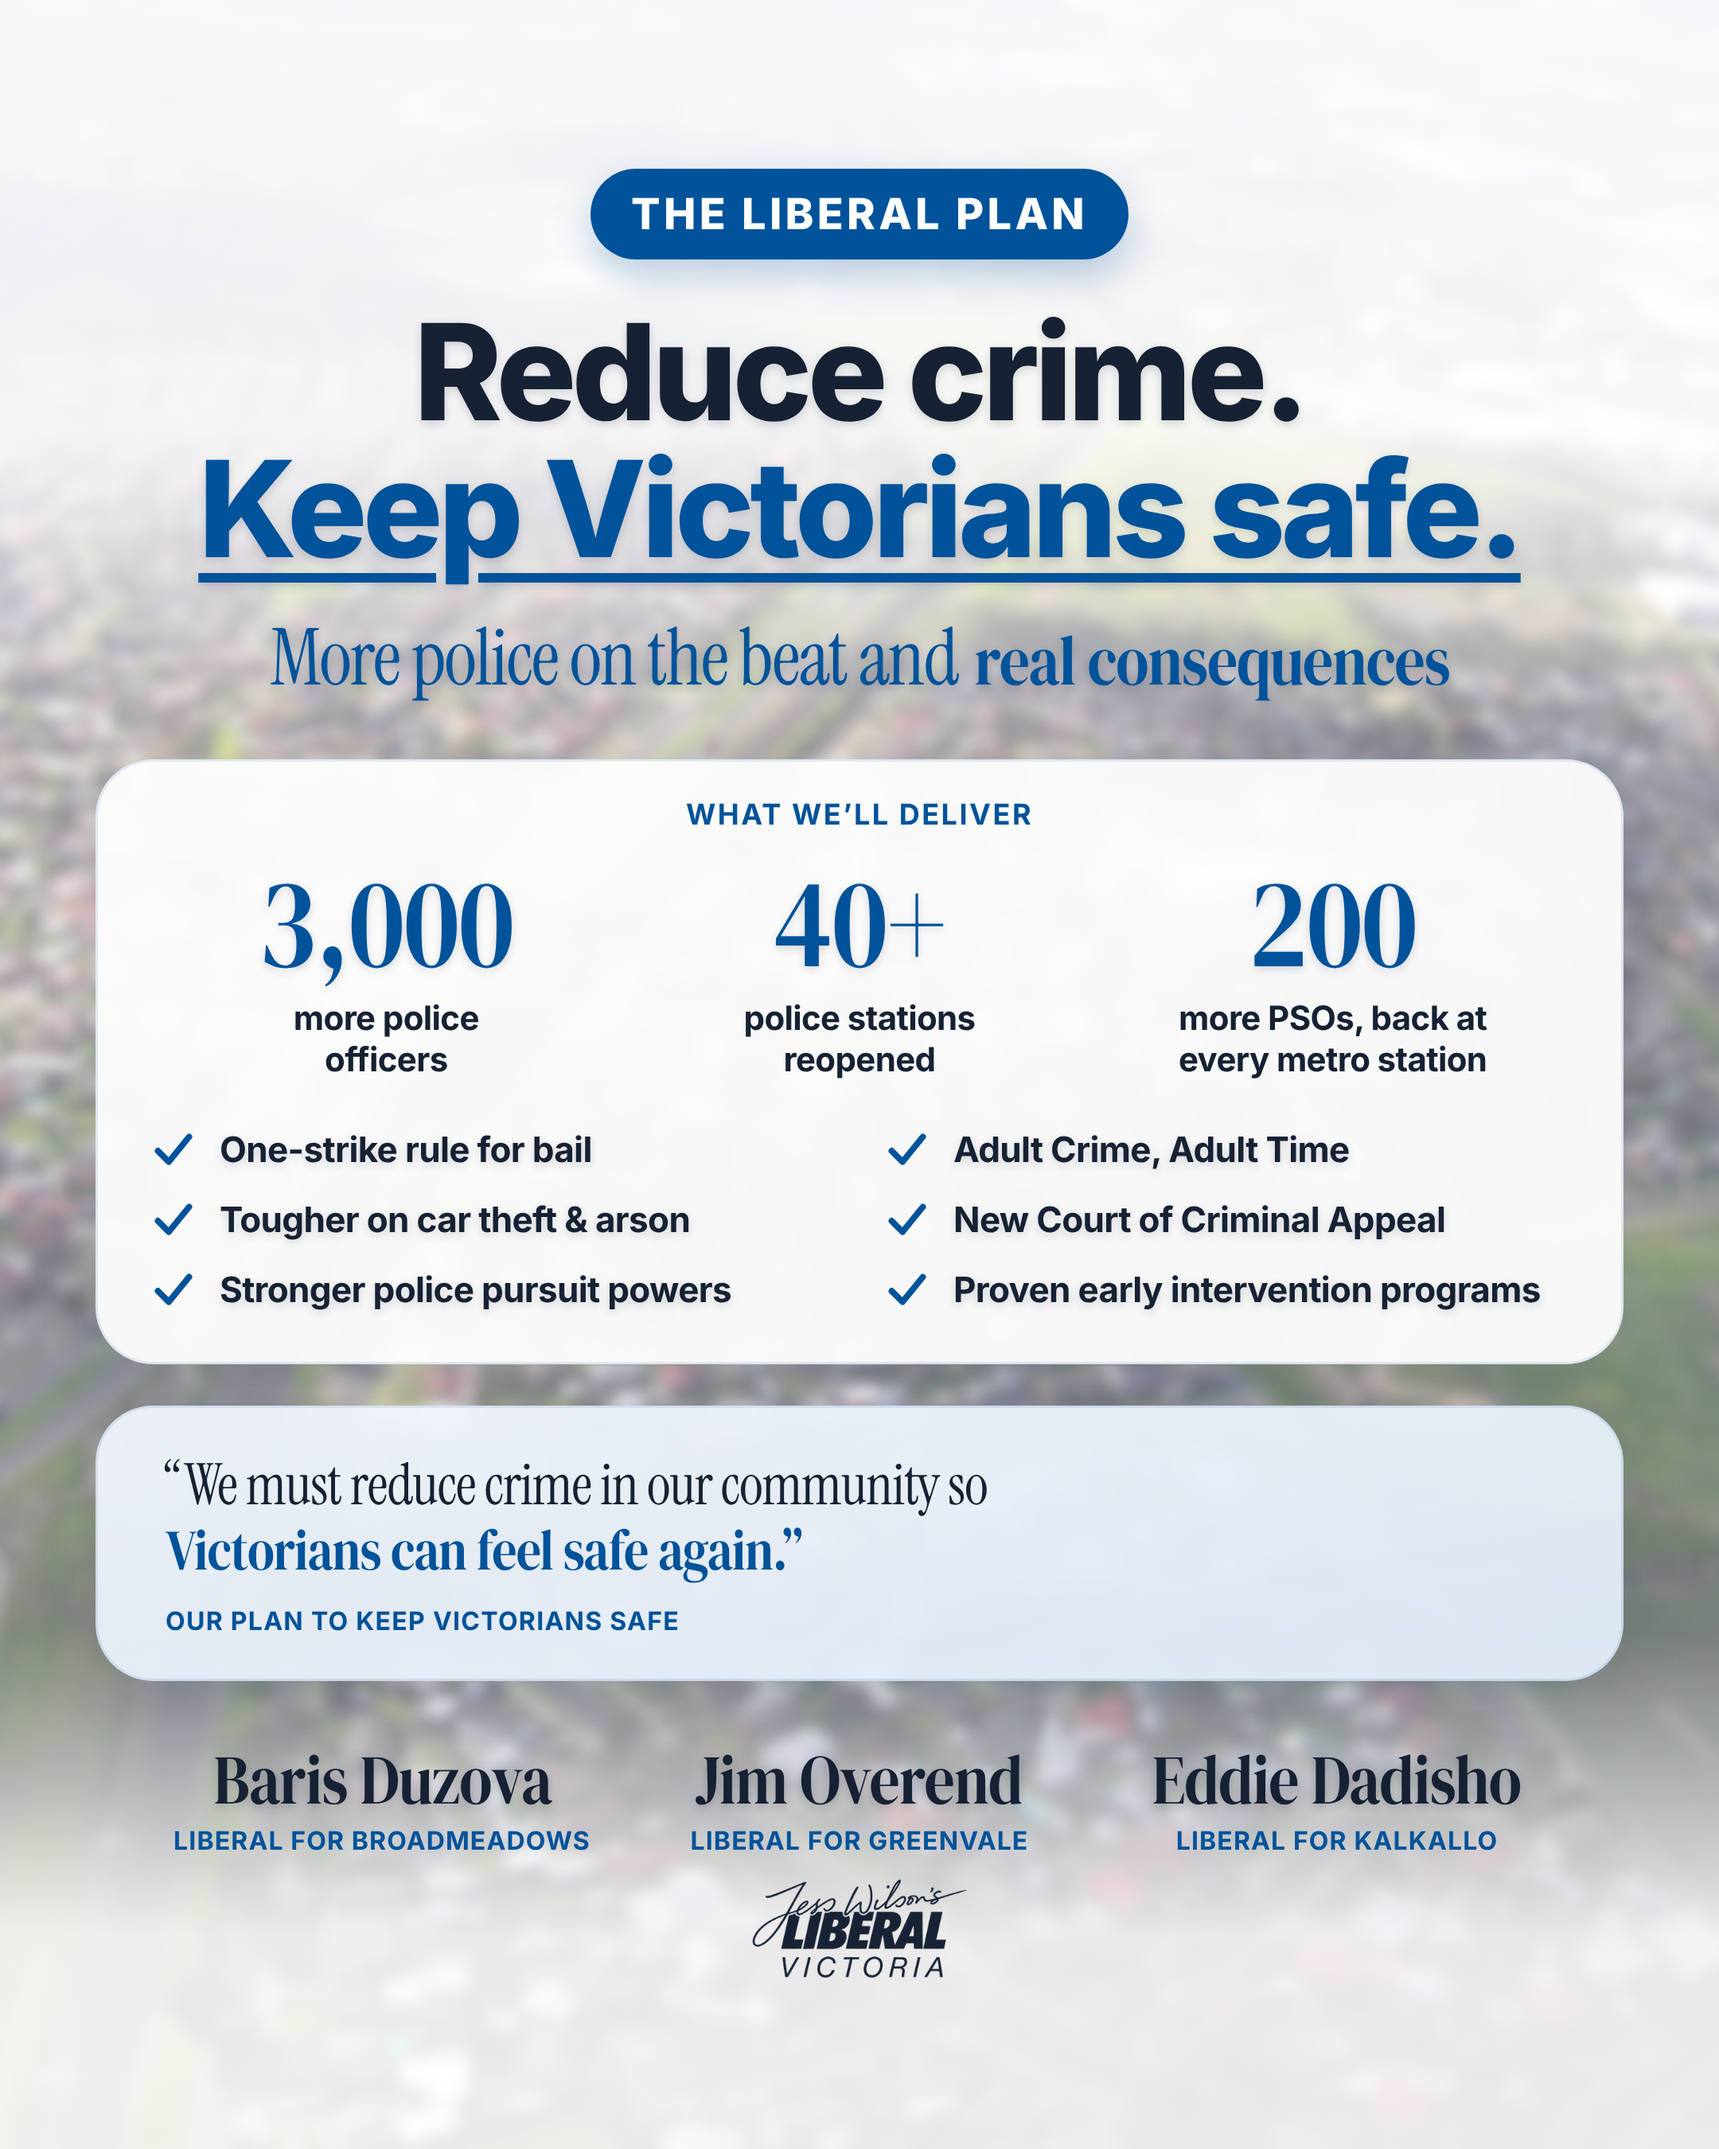
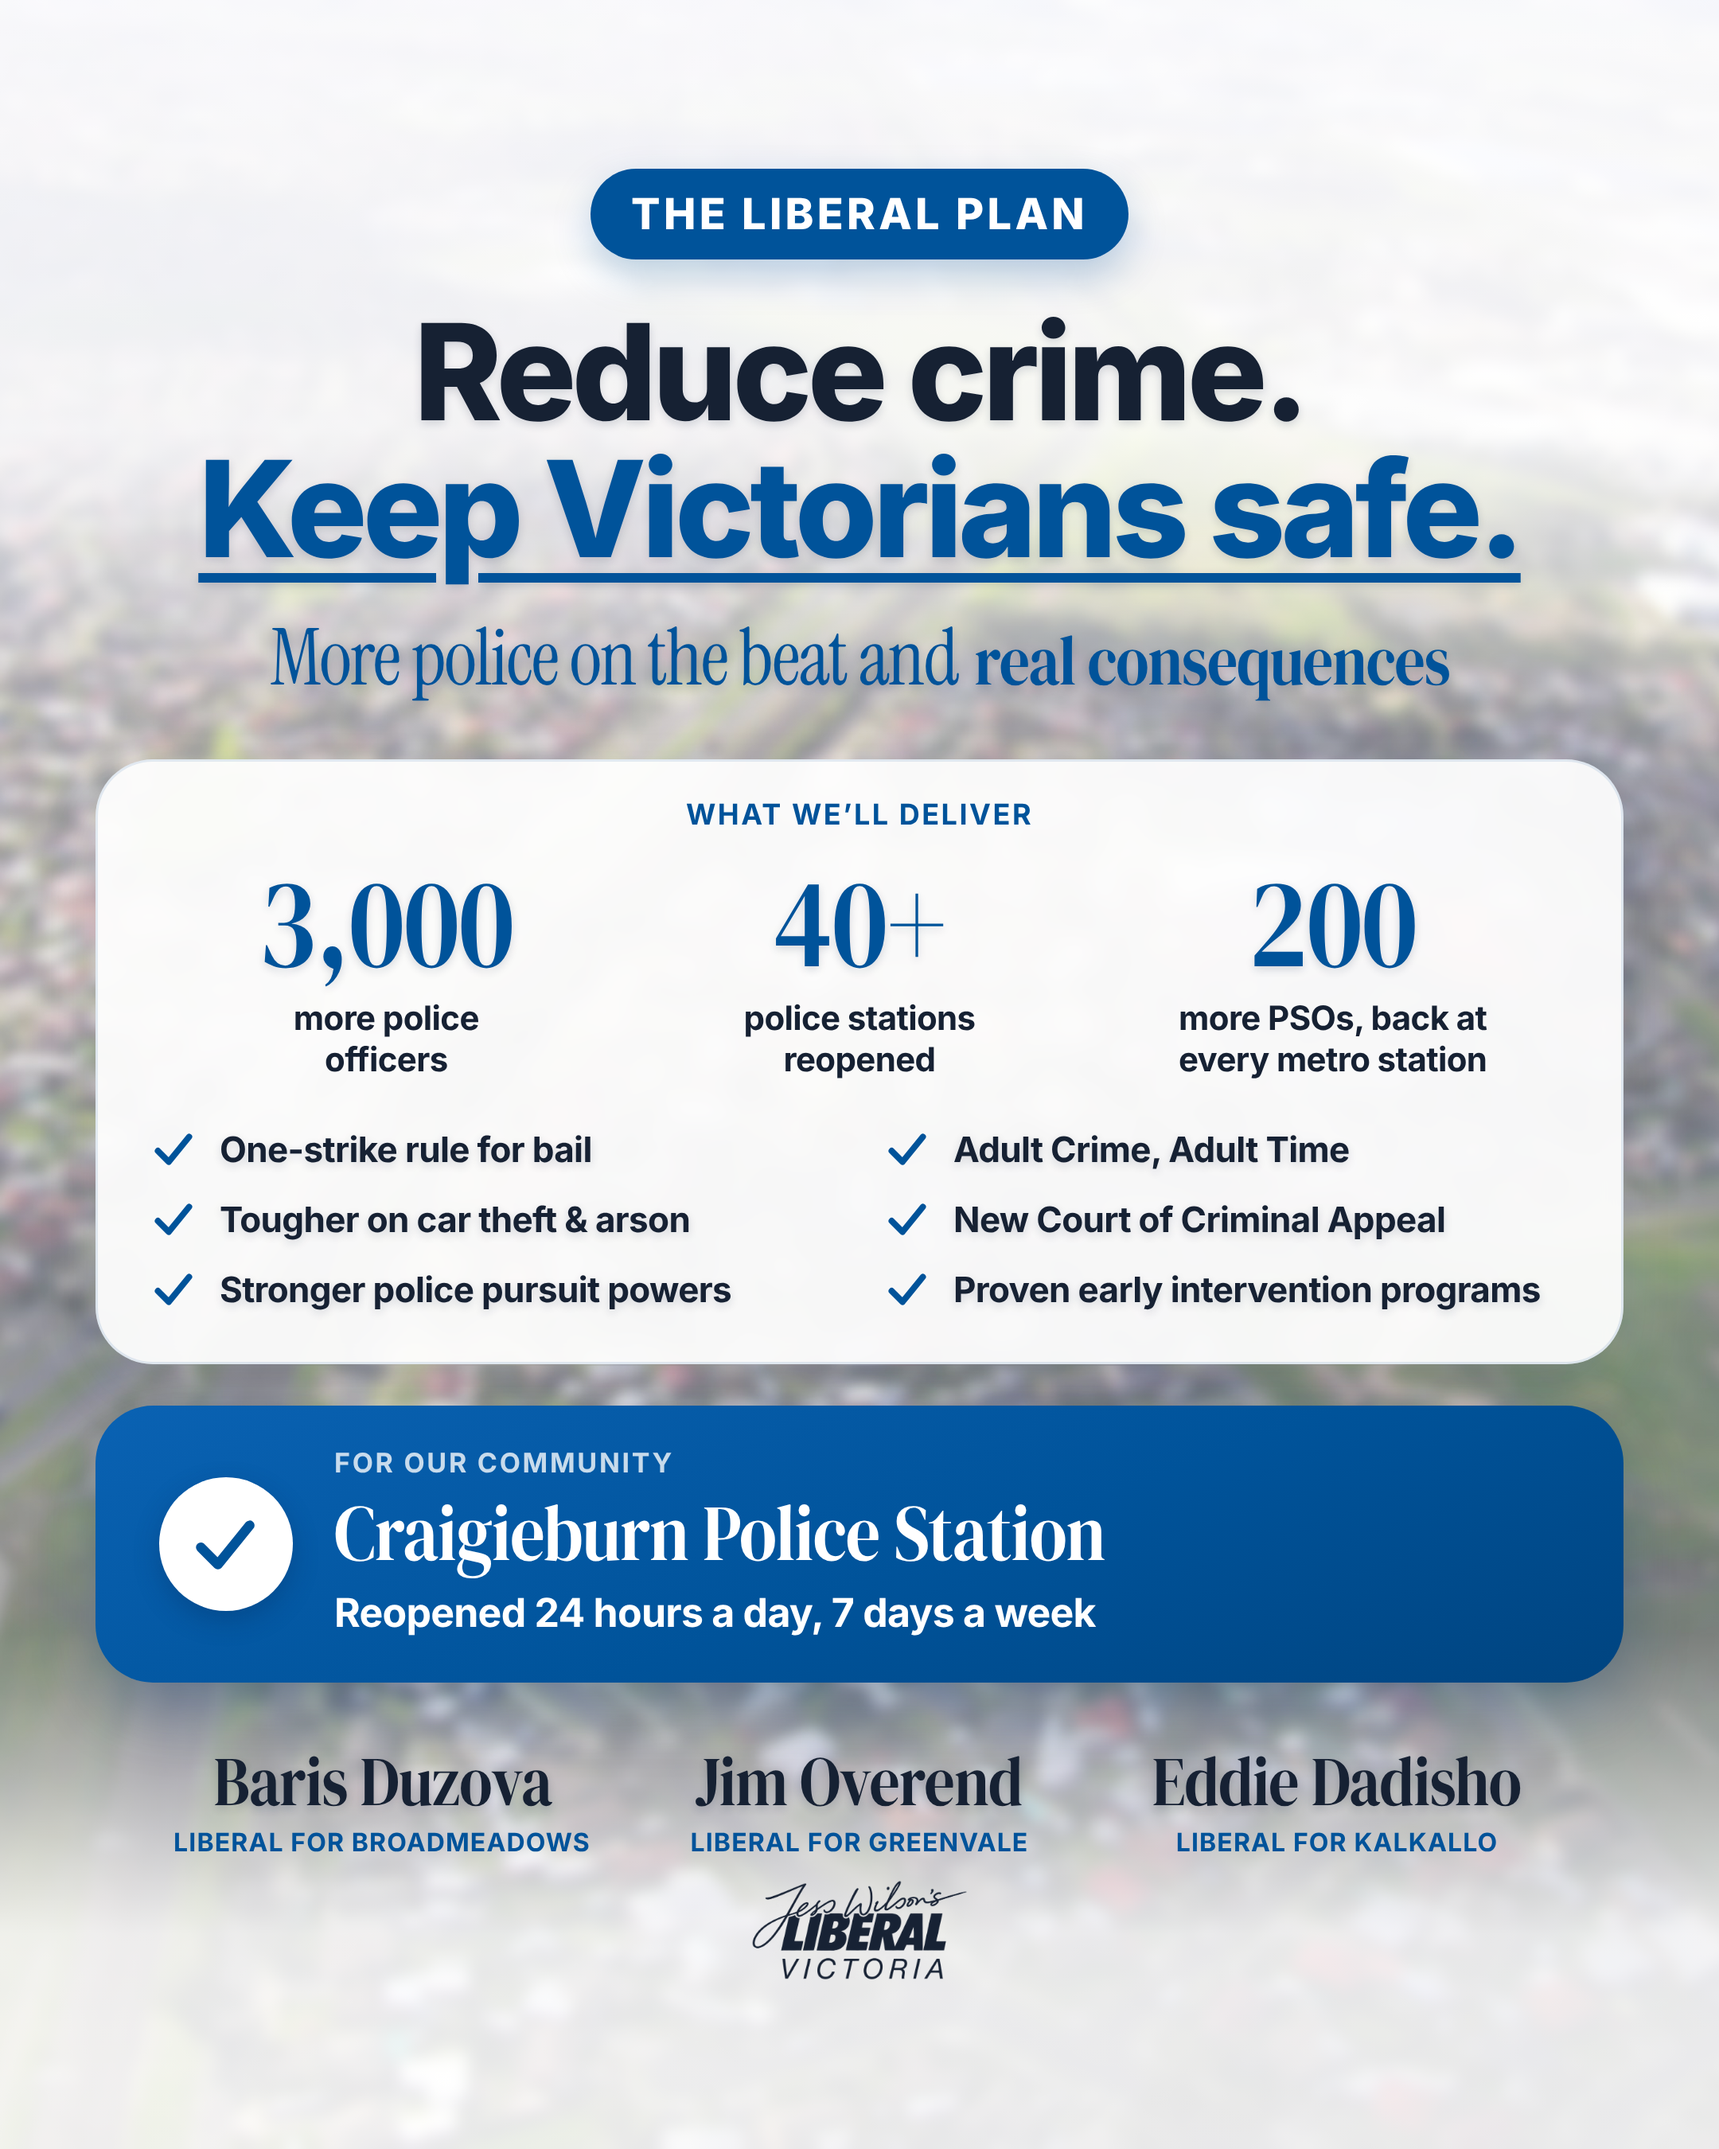
Crime slide 2: Craigieburn Police Station reopened 24/7 card
Replace the plan quote with a solid blue local-commitment card answering
slide 1's Craigieburn station cut; update caption and Instagram preview.

Claude-Session: https://claude.ai/code/session_01MT6wivusBEagFnhed7SAun

diff --git a/designs/crime-north/source/crime-plan.html b/designs/crime-north/source/crime-plan.html
@@ -37,11 +37,13 @@ h1 .ul{text-decoration:underline;text-decoration-color:var(--blue);text-decorati
 #ticks{display:grid;grid-template-columns:1fr 1fr;gap:16px 30px;text-align:left;margin-top:30px}
 .tk{display:flex;gap:14px;align-items:flex-start;font-family:"Inter";font-weight:700;color:var(--navy);letter-spacing:-.015em;line-height:1.25;text-shadow:var(--shadow)}
 .tk svg{flex:none;width:30px;height:30px;margin-top:-2px}
-#quote{padding:30px 44px 28px;text-align:left;background:linear-gradient(170deg,rgba(241,246,252,.94),rgba(226,236,248,.94));position:relative}
-#quote .q{font-family:"Serif Light";color:var(--navy);line-height:1.12;letter-spacing:-.015em}
-#quote .q .bd{font-family:"Serif Bold";color:var(--blue);display:inline-block;transform:scaleX(.86);transform-origin:0 50%}
-#quote .mark{position:absolute;left:30px;top:-6px;font-family:"Serif Bold";color:var(--blue);opacity:.18;line-height:1}
-#quote .who{margin-top:14px;font-family:"Inter";font-weight:700;color:var(--blue);letter-spacing:.04em;text-transform:uppercase}
+/* local commitment: solid Liberal blue card, the answer to slide 1's Craigieburn line */
+#local{display:flex;gap:26px;align-items:center;padding:28px 40px;text-align:left;
+  background:linear-gradient(160deg,#0a62b3 0%,#00539a 55%,#004480 100%);box-shadow:0 18px 40px rgba(0,60,120,.28)}
+#local .ic{flex:none;border-radius:50%;background:#fff;display:grid;place-items:center;box-shadow:0 6px 16px rgba(0,30,70,.25)}
+#local .lab{font-family:"Inter";font-weight:700;color:rgba(255,255,255,.78);letter-spacing:.08em;text-transform:uppercase;line-height:1}
+#local .t{margin-top:10px;font-family:"Serif Bold";color:#fff;line-height:1;letter-spacing:-.01em;white-space:nowrap;display:inline-block;transform:scaleX(.86);transform-origin:0 50%}
+#local .s{margin-top:10px;font-family:"Inter";font-weight:700;color:#fff;letter-spacing:-.015em;line-height:1.25}
 #stats .st .l b{font-weight:800}
 #foot{display:flex;flex-direction:column;align-items:center}
 #names{display:grid;grid-template-columns:repeat(var(--ncols),var(--ncol));justify-content:center;align-items:start;column-gap:var(--ngap)}
@@ -57,7 +59,7 @@ h1 .ul{text-decoration:underline;text-decoration-color:var(--blue);text-decorati
     <h1 id="h"></h1>
     <div id="lead" class="serif"></div>
     <div id="statcard" class="card"><div class="lab"></div><div id="stats"></div><div id="ticks"></div></div>
-    <div id="quote" class="card"><div class="mark">“</div><div class="q"></div><div class="who"></div></div>
+    <div id="local" class="card"><div class="ic"></div><div><div class="lab"></div><div class="t"></div><div class="s"></div></div></div>
     <div id="foot"><div id="names"></div><img id="logo" src="logo-navy.png" alt="Jess Wilson's Liberal Victoria"></div>
   </div>
 </div>
@@ -72,9 +74,9 @@ const P = Object.assign({
   statN:80, statL:21, statD:18,
   ticks:['One-strike rule for bail','Adult Crime, Adult Time','Tougher on car theft &amp; arson','New Court of Criminal Appeal','Stronger police pursuit powers','Proven early intervention programs'],
   tickSize:22,
-  quote:{text:'We must reduce crime in our community so <span class="bd">Victorians can feel safe again.”</span>',
-    size:36, who:'Our Plan to Keep Victorians Safe', whoSize:16, markSize:130},
-  gaps:[24,36,26,40],                    // after head, lead, statcard, quote
+  local:{lab:'For our community', labSize:17, title:'Craigieburn Police Station', titleSize:50,
+    sub:'Reopened 24 hours a day, 7 days a week', subSize:25, icon:84},
+  gaps:[24,36,26,40],                    // after head, lead, statcard, local
   // candidates, ordered by electorate
   cands:[['Baris Duzova','Liberal for Broadmeadows'],['Jim Overend','Liberal for Greenvale'],['Eddie Dadisho','Liberal for Kalkallo']],
   nameSize:44, roleSize:16, nameGap:20, colW:280, logoW:136, footGap:14
@@ -87,17 +89,19 @@ $('lead').innerHTML=P.lead; $('lead').style.fontSize=px(P.leadSize);
 $('stats').innerHTML=P.stats.map(([n,l,d])=>`<div class="st"><div class="n" style="font-size:${P.statN}px">${n}</div><div class="l" style="font-size:${P.statL}px">${l}</div>${d?`<div class="d" style="font-size:${P.statD}px">${d}</div>`:''}</div>`).join('');
 const tick=`<svg viewBox="0 0 46 46" fill="none" stroke="#00539a" stroke-width="6" stroke-linecap="round" stroke-linejoin="round"><path d="M8 24.5 18.5 35 38 11"/></svg>`;
 $('ticks').innerHTML=P.ticks.map(t=>`<div class="tk" style="font-size:${P.tickSize}px">${tick}<span>${t}</span></div>`).join('');
-const Q=P.quote; $('quote').querySelector('.q').innerHTML='“'+Q.text; $('quote').querySelector('.q').style.fontSize=px(Q.size);
-$('quote').querySelector('.who').innerHTML=Q.who; $('quote').querySelector('.who').style.fontSize=px(Q.whoSize);
-$('quote').querySelector('.mark').style.fontSize=px(Q.markSize); $('quote').querySelector('.mark').style.display='none';
+const Lc=P.local, lc=$('local'); lc.querySelector('.lab').innerHTML=Lc.lab; lc.querySelector('.lab').style.fontSize=px(Lc.labSize);
+lc.querySelector('.t').innerHTML=Lc.title; lc.querySelector('.t').style.fontSize=px(Lc.titleSize);
+lc.querySelector('.s').innerHTML=Lc.sub; lc.querySelector('.s').style.fontSize=px(Lc.subSize);
+const ic=lc.querySelector('.ic'); ic.style.width=ic.style.height=px(Lc.icon);
+ic.innerHTML=`<svg width="${Lc.icon*.56}" height="${Lc.icon*.56}" viewBox="0 0 46 46" fill="none" stroke="#00539a" stroke-width="6" stroke-linecap="round" stroke-linejoin="round"><path d="M8 24.5 18.5 35 38 11"/></svg>`;
 $('kicker').innerHTML=P.kicker; $('kicker').style.fontSize=px(P.kickerSize); $('kicker').style.marginBottom=px(P.kickerGap);
 $('statcard').querySelector('.lab').innerHTML=P.cardLab; $('statcard').querySelector('.lab').style.fontSize=px(P.labSize);
-['h','lead','statcard','quote'].forEach((id,i)=>$(id).style.marginBottom=px(P.gaps[i]));
+['h','lead','statcard','local'].forEach((id,i)=>$(id).style.marginBottom=px(P.gaps[i]));
 $('names').innerHTML=P.cands.map(([n,r])=>`<div class="cand"><div class="n" style="font-size:${P.nameSize}px">${n}</div><div class="r" style="font-size:${P.roleSize}px">${r}</div></div>`).join('');
 $('names').style.setProperty('--ngap',px(P.nameGap)); $('names').style.setProperty('--ncols',P.cands.length); $('names').style.setProperty('--ncol',px(P.colW));
 document.fonts.ready.then(()=>document.querySelectorAll('.cand .n').forEach(el=>{const m=-(el.offsetWidth*(1-0.86)/2); el.style.marginLeft=el.style.marginRight=m+'px';}));
 $('logo').style.width=px(P.logoW);
-document.fonts.ready.then(()=>{document.querySelectorAll('#quote .bd').forEach(el=>{el.style.marginRight=(-el.offsetWidth*0.14)+'px';});});
+document.fonts.ready.then(()=>{document.querySelectorAll('#local .t').forEach(el=>{el.style.marginRight=(-el.offsetWidth*0.14)+'px';});});
 document.fonts.ready.then(()=>document.querySelectorAll('.serif .bd').forEach(el=>{const m=-(el.offsetWidth*(1-0.86)/2); el.style.marginLeft=el.style.marginRight=m+'px';})); $('foot').style.gap=px(P.footGap);
 </script>
 </body></html>

diff --git a/designs/crime-north/crime-post.md b/designs/crime-north/crime-post.md
@@ -23,7 +23,7 @@ Across Victoria, 723 people became a victim of crime every single day in the yea
 Our Liberal and Nationals team has a comprehensive plan to reduce crime and keep Victorians safe. We will:
 
 ✅ Recruit 3,000 more police officers
-✅ Reopen the more than 40 police stations closed under Labor
+✅ Reopen the more than 40 police stations closed under Labor, including reopening Craigieburn Police Station 24 hours a day, 7 days a week
 ✅ Recruit 200 additional PSOs and return them to every single metropolitan train station
 ✅ Implement real Adult Crime, Adult Time laws, including for arson and motor vehicle theft
 ✅ Introduce a tough new one-strike rule for bail
@@ -63,11 +63,11 @@ Serif line: *More police on the beat and **real consequences***
 - **40+** police stations reopened
 - **200** more PSOs, back at every metro station
 - Ticks: one-strike rule for bail · Adult Crime, Adult Time · tougher on car theft & arson · new Court of Criminal Appeal · stronger police pursuit powers · proven early intervention programs
-- Quote: "We must reduce crime in our community so Victorians can feel safe again." (*Our Plan to Keep Victorians Safe*)
+- Local commitment card (solid blue): **"For our community — Craigieburn Police Station, reopened 24 hours a day, 7 days a week"** (campaign commitment; answers slide 1's "cut from 24/7 to two days a week")
 
 **Note on PSO numbers:** the policy document says 270 additional PSOs for stations plus 200 for shopping-centre strike teams. The campaign's latest summary says "200 additional PSOs … return them to every single metropolitan train station". The slide follows the latest summary. Confirm which one is current.
 
-The slide does **not** claim Craigieburn station will reopen. The plan commits to reopening "the more than 40 stations closed or with reduced hours" but doesn't name them. If Craigieburn is confirmed on that list, a line like "including Craigieburn" would be strong local copy.
+The Craigieburn commitment (reopen, 24/7) was supplied by the campaign — **confirm it is an announced Liberal commitment** before posting.
 
 ---
 
